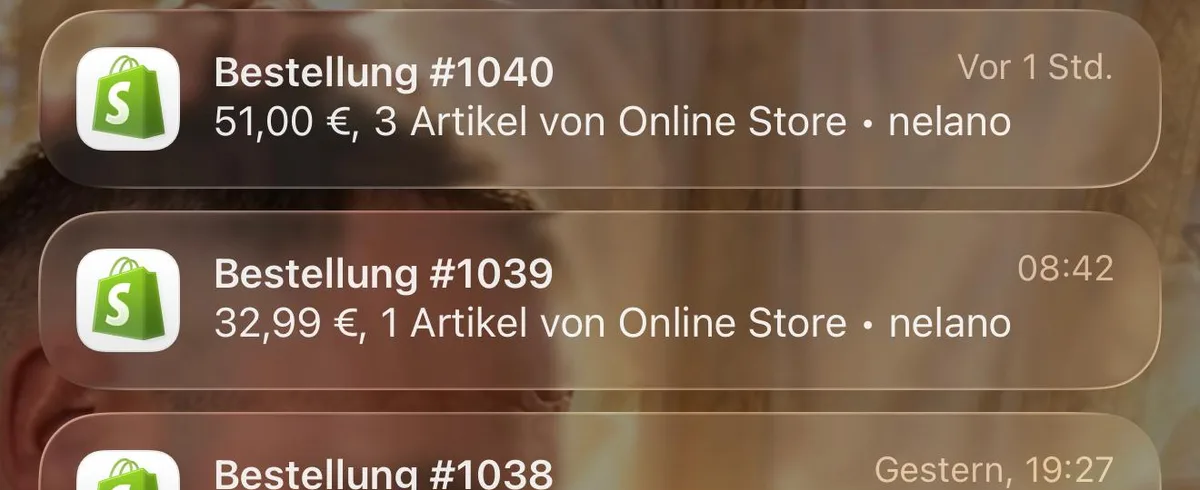
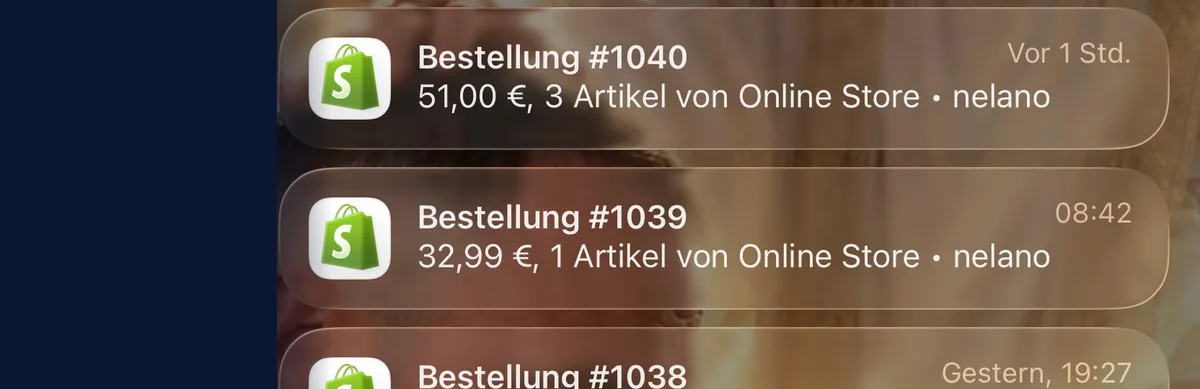
E-Commerce-Karte: Bild nach rechts, Shopify-Symbole sichtbar
Claude-Session: https://claude.ai/code/session_01TXyrLPAgJLvZEgJw2Px1jA

diff --git a/business/index.html b/business/index.html
@@ -1583,7 +1583,7 @@ form .btn{justify-content:center;margin-top:6px}
         <p>Heute führe ich drei eigene Firmen. Für jede davon gewinne ich Kunden mit genau dem System, das ich für Ihren Betrieb baue: Website, Werbung, automatische Anfragen und ein Team, das nachfasst.</p>
         <div class="nx-firms">
           <div><img src="../assets/firm-smp.webp" style="object-position:60% 40%" alt="Viktor im Tonstudio von Saved Music Productions" loading="lazy"><p><b>Saved Music Productions</b><span>Tonstudio und Musikproduktion in Bersenbrück</span></p></div>
-          <div><img src="../assets/firm-shop.webp" style="object-position:30% 30%" alt="Shopify-Bestellungen im eigenen Online-Shop" loading="lazy"><p><b>E-Commerce</b><span>eigener Online-Shop mit Werbung auf Facebook und Instagram</span></p></div>
+          <div><img src="../assets/firm-shop.webp?v=2" style="object-position:0% 30%" alt="Shopify-Bestellungen im eigenen Online-Shop" loading="lazy"><p><b>E-Commerce</b><span>eigener Online-Shop mit Werbung auf Facebook und Instagram</span></p></div>
           <div><img src="../assets/firm-hlp.webp" style="object-position:100% 45%" alt="Marketing-Trichter mit Google, Meta, YouTube und Instagram" loading="lazy"><p><b>High Level Performance</b><span>Websites, Werbung und Vertrieb für Handwerk und Mittelstand</span></p></div>
         </div>
         <p class="nx-sign">Ein Ansprechpartner, ein Team, eigenes Kamerateam und eigener Telefonvertrieb. Wenn Sie anrufen, sprechen Sie mit uns, nicht mit einem Callcenter.</p>

diff --git a/index.html b/index.html
@@ -1622,7 +1622,7 @@ form .btn{justify-content:center;margin-top:6px}
         <p>Heute führe ich drei eigene Firmen. Für jede davon gewinne ich Kunden mit genau dem System, das ich für Ihren Betrieb baue: Website, Werbung, automatische Anfragen und ein Team, das nachfasst.</p>
         <div class="nx-firms">
           <div><img src="assets/firm-smp.webp" style="object-position:60% 40%" alt="Viktor im Tonstudio von Saved Music Productions" loading="lazy"><p><b>Saved Music Productions</b><span>Tonstudio und Musikproduktion in Bersenbrück</span></p></div>
-          <div><img src="assets/firm-shop.webp" style="object-position:30% 30%" alt="Shopify-Bestellungen im eigenen Online-Shop" loading="lazy"><p><b>E-Commerce</b><span>eigener Online-Shop mit Werbung auf Facebook und Instagram</span></p></div>
+          <div><img src="assets/firm-shop.webp?v=2" style="object-position:0% 30%" alt="Shopify-Bestellungen im eigenen Online-Shop" loading="lazy"><p><b>E-Commerce</b><span>eigener Online-Shop mit Werbung auf Facebook und Instagram</span></p></div>
           <div><img src="assets/firm-hlp.webp" style="object-position:100% 45%" alt="Marketing-Trichter mit Google, Meta, YouTube und Instagram" loading="lazy"><p><b>High Level Performance</b><span>Websites, Werbung und Vertrieb für Handwerk und Mittelstand</span></p></div>
         </div>
         <p class="nx-sign">Ein Ansprechpartner, ein Team, eigenes Kamerateam und eigener Telefonvertrieb. Wenn Sie anrufen, sprechen Sie mit uns, nicht mit einem Callcenter.</p>
